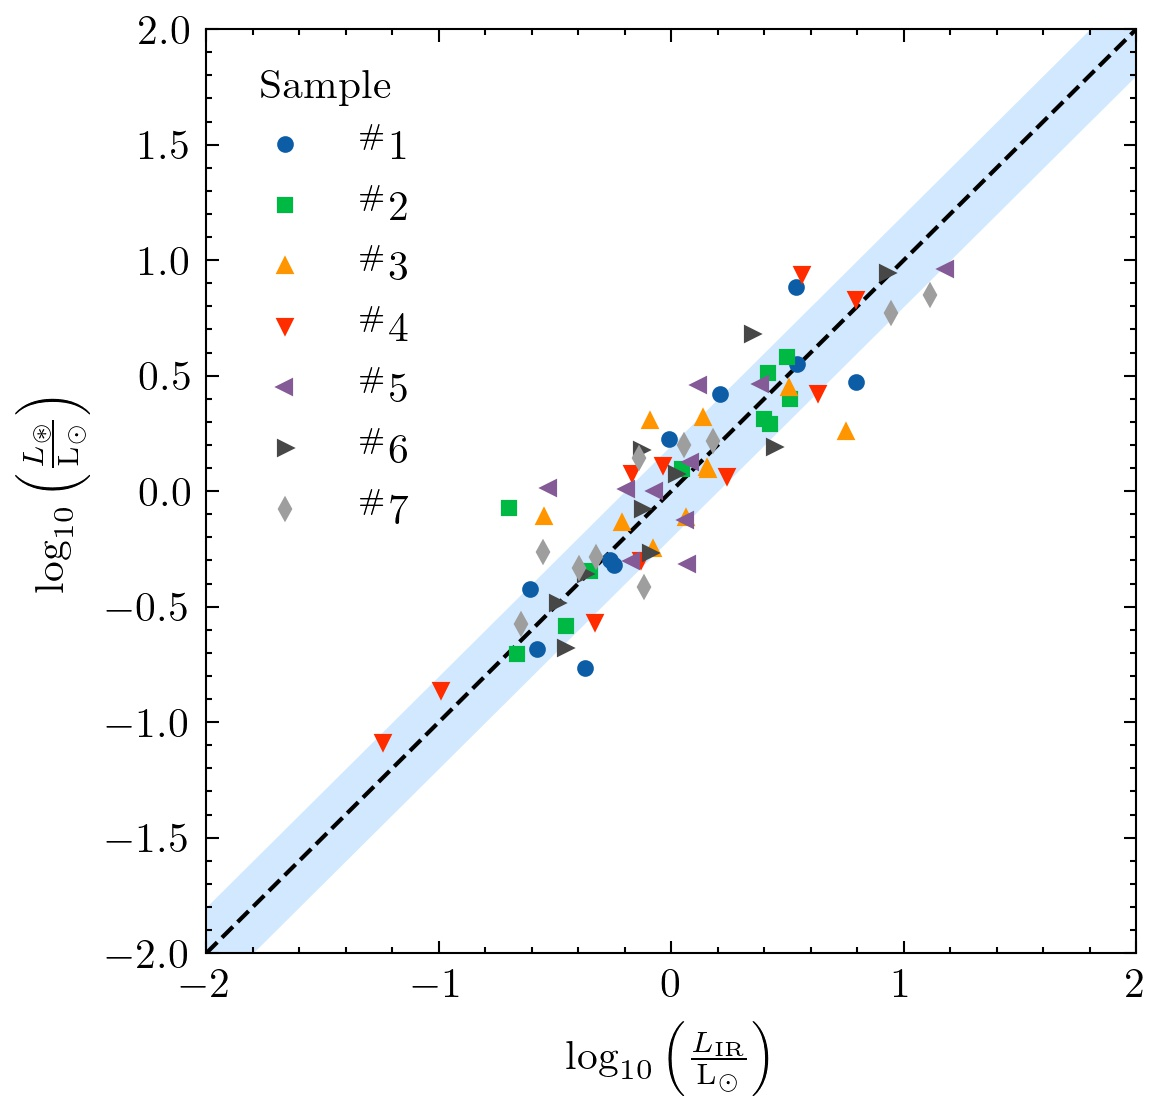
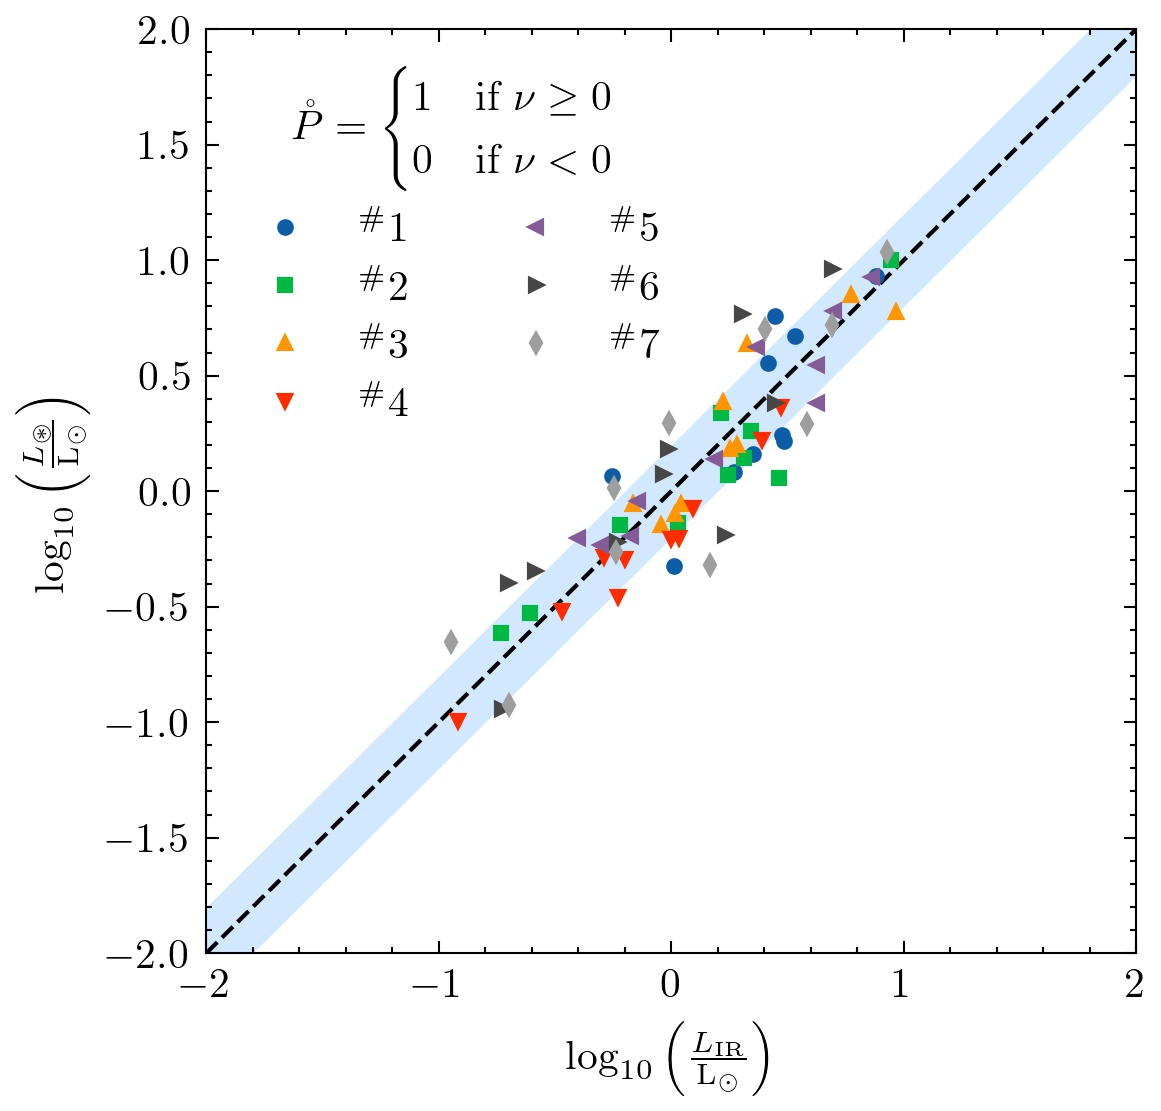
examples/fig3: add elements from amsmath/amssymb packages

diff --git a/examples/plot-examples.py b/examples/plot-examples.py
@@ -65,7 +65,8 @@ with plt.style.context(['science', 'scatter']):
         x1 = np.random.normal(0, 0.5, 10)
         y1 = x1 + np.random.normal(0, 0.2, 10)
         ax.plot(x1, y1, label=r"$^\#${}".format(i+1))
-    ax.legend(title='Sample', loc=2)
+    lgd = r"$\mathring{P}=\begin{cases}1&\text{if $\nu\geq0$}\\0&\text{if $\nu<0$}\end{cases}$"
+    ax.legend(title=lgd, loc=2, ncol=2)
     xlbl = r"$\log_{10}\left(\frac{L_\mathrm{IR}}{\mathrm{L}_\odot}\right)$"
     ylbl = r"$\log_{10}\left(\frac{L_\circledast}{\mathrm{L}_\odot}\right)$"
     ax.set_xlabel(xlbl)
